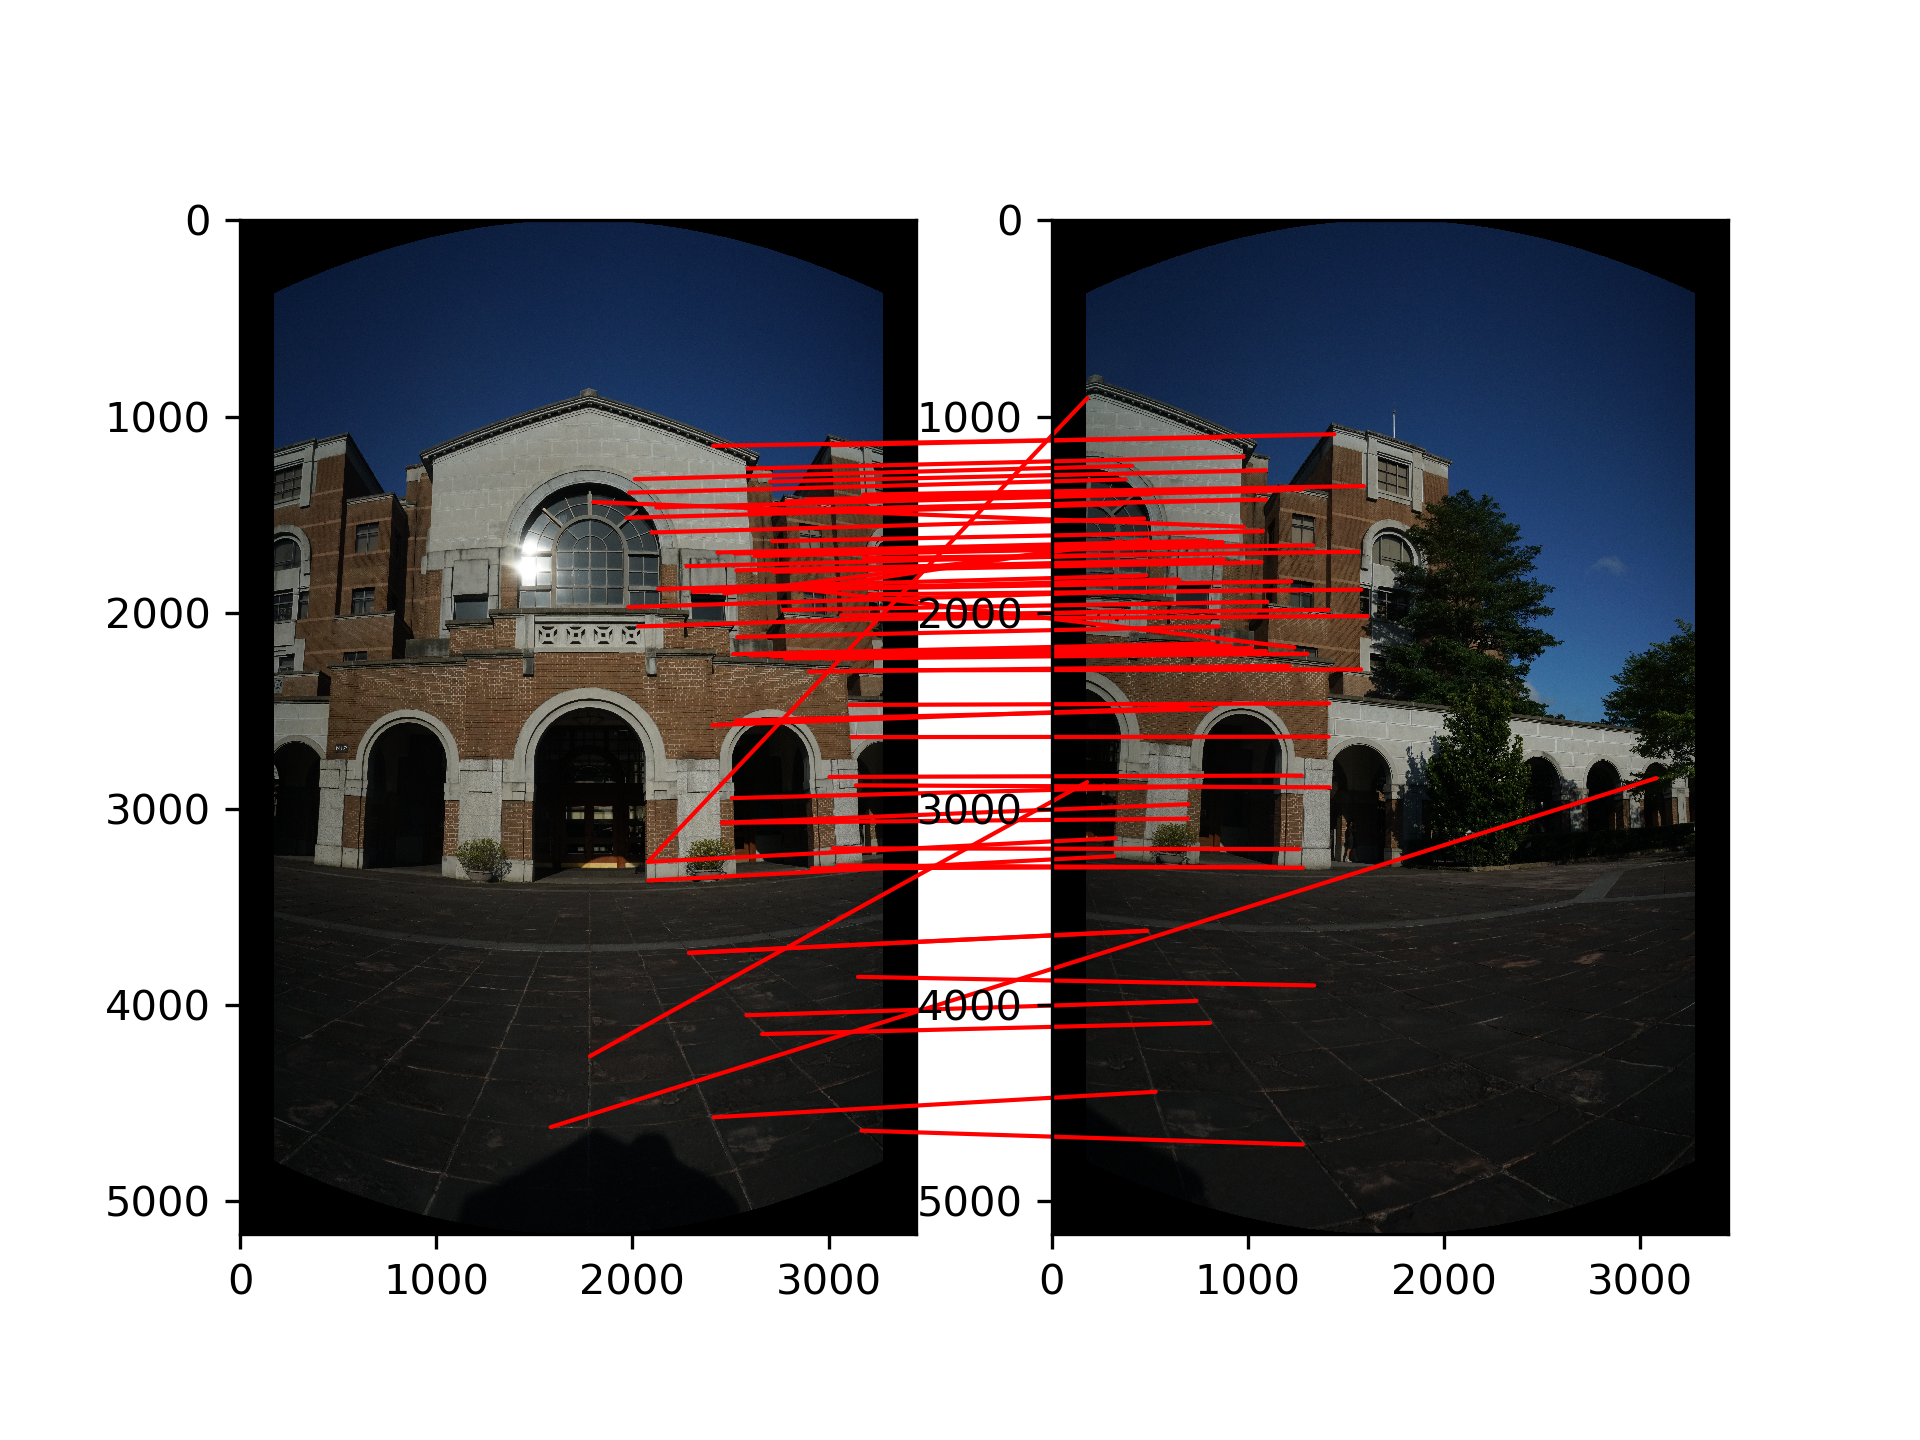
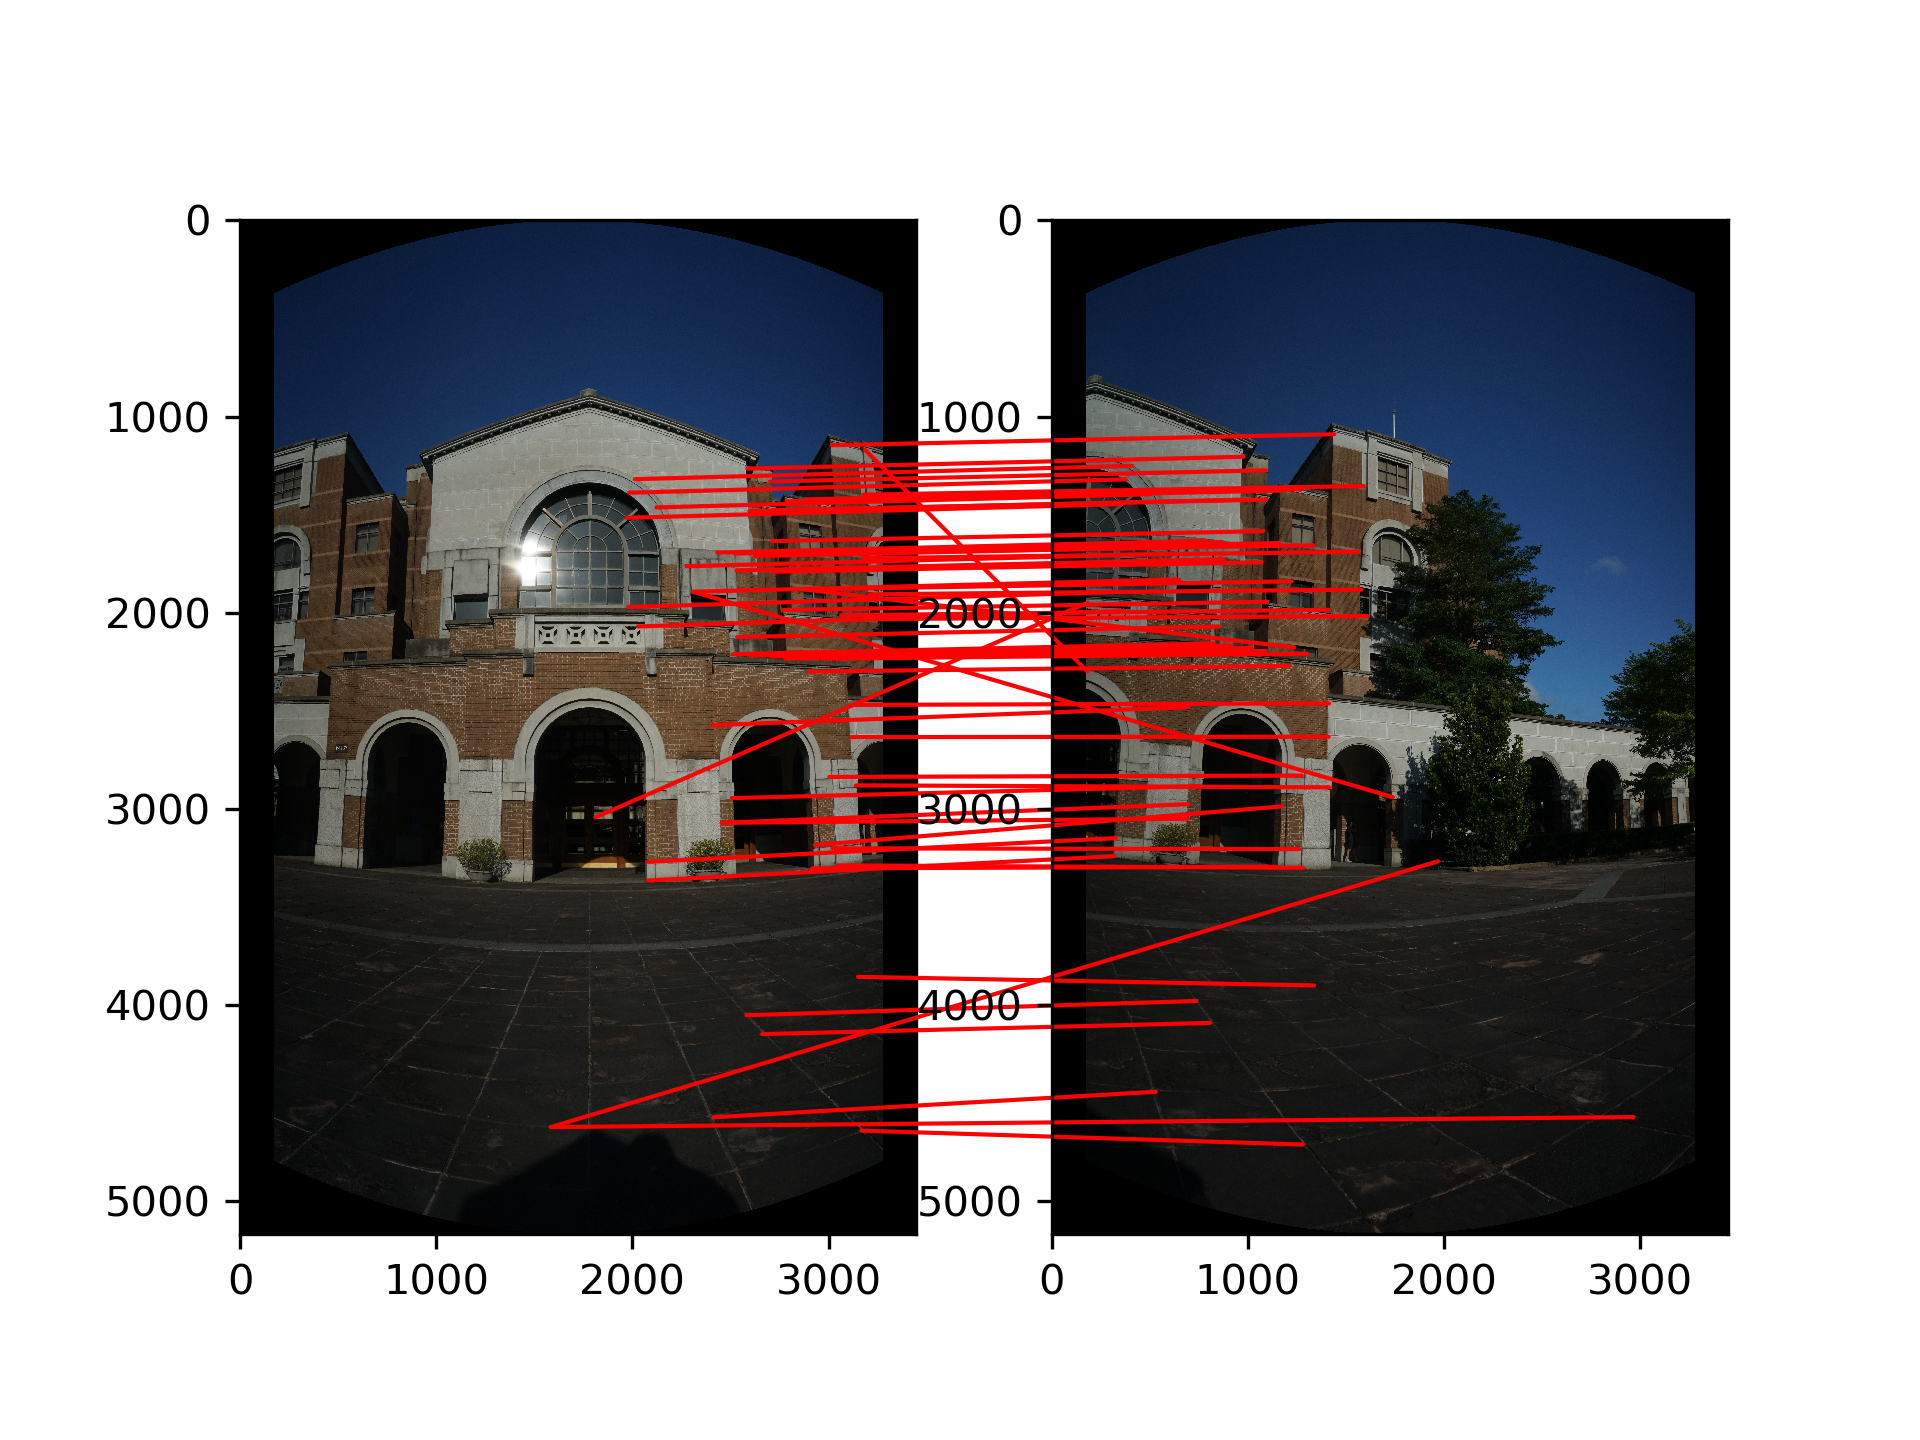
Final result

diff --git a/ImageStitching/code/match.py b/ImageStitching/code/match.py
@@ -215,8 +215,8 @@ class Matching:
 
 repeat_k = 80
 sample_amount = 4
-matching_threshold = 0.72
-inlier_threshold = 30
+matching_threshold = 0.7
+inlier_threshold = 20
 if __name__ == '__main__':
     # parse command line arguments
     # Usage: python3 matching.py <input> <output> <match> <stitch>

diff --git a/ImageStitching/code/harris.py b/ImageStitching/code/harris.py
@@ -159,7 +159,7 @@ gaussian_sigma = 3
 harris_k = 0.05
 guassian_window_size = 31
 non_maximal_window_size = 131
-descriptor_window_size = 41
+descriptor_window_size = 29
 
 # guassian_window_size = 5
 # non_maximal_window_size = 15

diff --git a/ImageStitching/README.md b/ImageStitching/README.md
@@ -20,6 +20,8 @@ python3 match.py ../data/warped/library ../data/harris/library../data/matched/pa
 
 The final panorama image is called result.jpg, and is saved in the "stitched/library" directory.
 
+> Note: The input images needs to be in right-to-left order
+
 ### Warp to Cylinder Coordinate
 
 Let $f$ denote the focal length, and $x_c$, $y_c$ denote the x, y coordinate of the image center. We warp the image by reprojecting them onto a cylinder with the following formula:
@@ -99,18 +101,80 @@ it’s halfway between two histogram locations, it gives a percentage of contrib
 
 ![image](https://i.imgur.com/6IHVcr4.png)
 
-For more detail description, here is a reference slide: http://vision.stanford.edu/teaching/cs131_fall1718/files/07_DoG_SIFT.pdf
+For more detail description, here is some resources: 
+
+http://vision.stanford.edu/teaching/cs131_fall1718/files/07_DoG_SIFT.pdf
+
+https://learnopencv.com/histogram-of-oriented-gradients/
 
 
 
 ### Feature Matching
 
-Go through every image and compare the feature descriptor of current image with the next image using `np.linalg.norm`.  We aimed to find the matched feature points with the minimal difference.
+Go through every image and compare the feature descriptor of current image with the next image using `distance.euclidean`.  We aimed to find the matched feature points with the minimal difference.
 
 To reduce the amount of matching pairs, minimal match point difference needs to be 0.75 times smaller than second minimal match point difference.
 
+We then save the matched pair `[r_current, c_current, r_next, c_next]` to an list. Draw a red line between the matched pair using `matplotlib.pyplot`.
+
+The feature matching result is shown as below:
+
+|           Feature Matching           |
+| :----------------------------------: |
+| ![](https://i.imgur.com/y29pn8c.png) |
+
+
+
 ### Image Matching
+
+In order to find the best transformation matrix, we use RANSAC (Random Sample Consensus) for robust fitting models in the presence of data outliers.
+
+**Step 1**: Draw out 4 random feature points for calculating Homography **H**.
+
+**Step 2**: Calculate the H matrix using the equation:
+$$
+\begin{bmatrix}
+	\omega x_i\prime \\
+	\omega y_i\prime \\
+	\omega \\
+\end{bmatrix}
+=
+\begin{bmatrix}
+	h_{00} & h_{01} & h_{02} \\
+	h_{10} & h_{11} & h_{12} \\
+	h_{20} & h_{21} & h_{22} \\
+\end{bmatrix}
+\begin{bmatrix}
+	x_i \\
+	y_i \\
+	1 \\
+\end{bmatrix}
+$$
+equals to
+$$
+\begin{bmatrix}
+	x_i & y_i & 1 & 0 & 0 & 0 & -{x_i}{x_i\prime} & -{y_i}{x_i\prime} & -{x_i\prime}\\
+	0 & 0 & 0 & x_i & y_i & 1 & -{x_i}{y_i\prime} & -{y_i}{y_i\prime} & -{y_i\prime}\\
+\end{bmatrix}
+\begin{bmatrix}
+	h_{00} \\ h_{01} \\ h_{02} \\ h_{10} \\ h_{11} \\ h_{12} \\ h_{20} \\ h_{21} \\ h_{22} \\
+\end{bmatrix}
+=
+\begin{bmatrix}
+	0 \\ 0 \\
+\end{bmatrix}
+$$
+**Step 3**: Get the error of the H matrix by calculating the sum product of each feature point and H. If the error is smaller than `inlier_threshol = 20`, consider the matching pair as inlier. 
+
+**Step 4**: Repeat step 1-3  `repeat_k = 100` times. Find the Homography **H** with the largest inlier pair amount.
 
 ### Blending
 
+
+
 ### Result
+
+|              Result.jpg              |
+| :----------------------------------: |
+| ![](https://i.imgur.com/S4fdcAB.jpg) |
+
